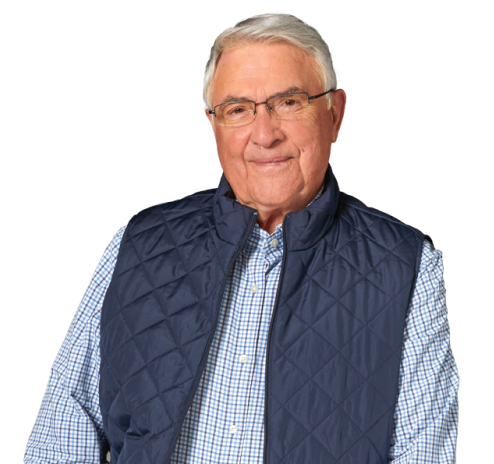
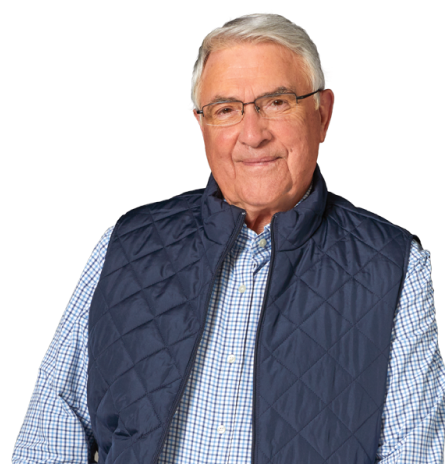
TopBlock.vue - finished

diff --git a/src/views/Home.vue b/src/views/Home.vue
@@ -1,5 +1,6 @@
 <template>
   <div class="home">
+    <div class="wrapper"></div>
     <svg class="logo-left" width="192" height="18" viewBox="0 0 192 18" fill="none" xmlns="http://www.w3.org/2000/svg">
       <path fill-rule="evenodd" clip-rule="evenodd" d="M131.859 11.2821C131.944 11.0446 132.025 10.8166 132.079 10.6245H136.222C136.261 10.7022 136.305 10.7878 136.353 10.8796C136.613 11.3813 136.968 12.0666 136.968 12.6323C136.968 13.3015 136.388 13.3852 135.476 13.3852V14.1381H141.36V13.3852C140.531 13.3015 140.117 12.9669 139.454 11.3774L136.637 4.85216C136.139 3.76462 135.891 2.92805 135.808 2.50977H134.151C133.985 3.17902 133.736 3.93194 133.405 4.60119L130.339 12.2976C129.925 13.1342 129.676 13.4688 128.848 13.4688V14.2218H132.991V13.4688C132.079 13.4688 131.499 13.3852 131.499 12.6323C131.499 12.2949 131.686 11.7687 131.859 11.2821ZM134.234 5.52142L135.974 9.70427H132.494L134.068 5.52142C134.068 5.41852 134.068 5.3789 134.087 5.36365C134.099 5.35411 134.119 5.35411 134.151 5.35411C134.151 5.35411 134.151 5.43776 134.234 5.52142Z" fill="white"/>
       <path fill-rule="evenodd" clip-rule="evenodd" d="M147.243 13.4689V14.3891L150.641 14.2218V13.3852C149.978 13.3016 149.646 13.2179 149.646 12.5487V0.83667L145.835 1.1713V1.84055C146.746 1.92421 147.078 2.09153 147.078 2.76078V5.18684C146.746 5.01952 146.083 4.85221 145.255 4.85221C142.603 4.85221 141.277 7.52924 141.277 9.70432C141.277 12.3813 142.272 14.3891 144.675 14.3891C145.752 14.3891 146.415 13.8872 146.995 13.3852C147.036 13.3852 147.057 13.3643 147.078 13.3434C147.098 13.3225 147.119 13.3016 147.16 13.3016C147.243 13.3016 147.243 13.3852 147.243 13.4689ZM145.835 5.85609C146.58 5.85609 146.995 6.19072 146.995 7.02729V12.2977C146.663 12.5487 146.166 12.716 145.835 12.716C144.426 12.716 143.929 10.9592 143.929 9.62066C143.929 7.36192 144.509 5.85609 145.835 5.85609Z" fill="white"/>
@@ -44,23 +45,44 @@ export default {
 
 <style lang="sass" scoped>
 .home
-  background-color: #000
   padding: 50px
   position: relative
   box-sizing: border-box
   min-height: 100vh
+  @media screen and (max-width: $mobile)
+    padding: 40px 8px 50px
+.wrapper
+  position: fixed
+  border: 50px solid $black
+  top: 0
+  bottom: 0
+  left: 0
+  right: 0
+  z-index: 1
+  @media screen and (max-width: $mobile)
+    border-top-width: 40px
+    border-left-width: 8px
+    border-right-width: 8px
 
 .logo-left
   width: 192px
   height: 18px
-  position: absolute
+  position: fixed
   left: 50px
   top: 16px
+  z-index: 1
+  @media screen and (max-width: $mobile)
+    top: 12px
+    left: 8px
 
 .logo-right
   width: 119px
   height: 17px
-  position: absolute
+  position: fixed
   top: 18px
   right: 50px
+  z-index: 1
+  @media screen and (max-width: $mobile)
+    top: 14px
+    right: 8px
 </style>

diff --git a/src/components/TopBlock.vue b/src/components/TopBlock.vue
@@ -45,6 +45,8 @@ export default {
   position: absolute
   top: 27px
   left: 16px
+  @media screen and (max-width: $mobile)
+    display: none
 
 .btn
   text-transform: uppercase
@@ -55,6 +57,9 @@ export default {
   padding: 9px 19px
   background-color: $main
   display: inline-block
+  font-size: 12px
+  @media screen and (max-width: $mobile)
+    padding: 5px 7px
 
 .title
   max-width: 65%
@@ -67,21 +72,49 @@ export default {
   margin-top: 14.5px
   margin-bottom: 0
   line-height: 48px
+  //height: 48px
+  @media screen and (max-width: $mobile)
+    font-size: 28px
+    line-height: 32px
 
 .patients
   display: flex
   justify-content: space-between
+  min-height: calc(100vh - 162.5px)
+  @media screen and (max-width: $mobile)
+    flex-direction: column
   .patient
     display: flex
+    width: 40%
+    align-items: center
+    justify-content: space-between
+    @media screen and (max-width: $mobile)
+      width: 100%
+      border-bottom: 2px solid $grey
     &:last-child
       flex-direction: row-reverse
+      @media screen and (max-width: $mobile)
+        flex-direction: row
+      .patient-img
+        object-position: bottom right
+        @media screen and (max-width: $mobile)
+          object-position: bottom left
+          transform: scaleX(-1)
     .patient-img
-      width: 50%
+      width: 60%
       height: 100%
-      object-fit: cover
-      object-position: top left
+      object-fit: contain
+      object-position: bottom left
+      @media screen and (max-width: $mobile)
+        width: 200px
+        height: 100%
+        max-width: 50%
+        align-self: flex-end
     .patient-info
       text-align: center
+      @media screen and (max-width: $mobile)
+        padding-top: 10px
+        padding-bottom: 10px
       .patient-name
         font-size: 40px
         color: $titleBlack
@@ -89,6 +122,9 @@ export default {
         margin: 0
         margin-bottom: 8px
         line-height: 48px
+        @media screen and (max-width: $mobile)
+          font-size: 28px
+          line-height: 32px
       .patient-desc
         font-size: 16px
         line-height: 22px
@@ -105,8 +141,20 @@ export default {
         margin: 0
         margin-top: 8px
 
-
-
+.bottom-info
+  color: $grey
+  font-family: 'Open Sans', sans-serif
+  font-size: 12px
+  line-height: 24px
+  position: absolute
+  bottom: 14px
+  left: 29%
+  margin: 0
+  max-width: 50%
+  @media screen and (max-width: $mobile)
+    position: static
+    padding: 15px
+    max-width: none
 
 
 </style>

diff --git a/src/sass/variables.sass b/src/sass/variables.sass
@@ -6,4 +6,5 @@ $grey: #575757
 $titleBlack: #0D0D0D
 
 //resolutions
-$mobile: 480px
+$mobile: 768px
+$tablet: 992px
